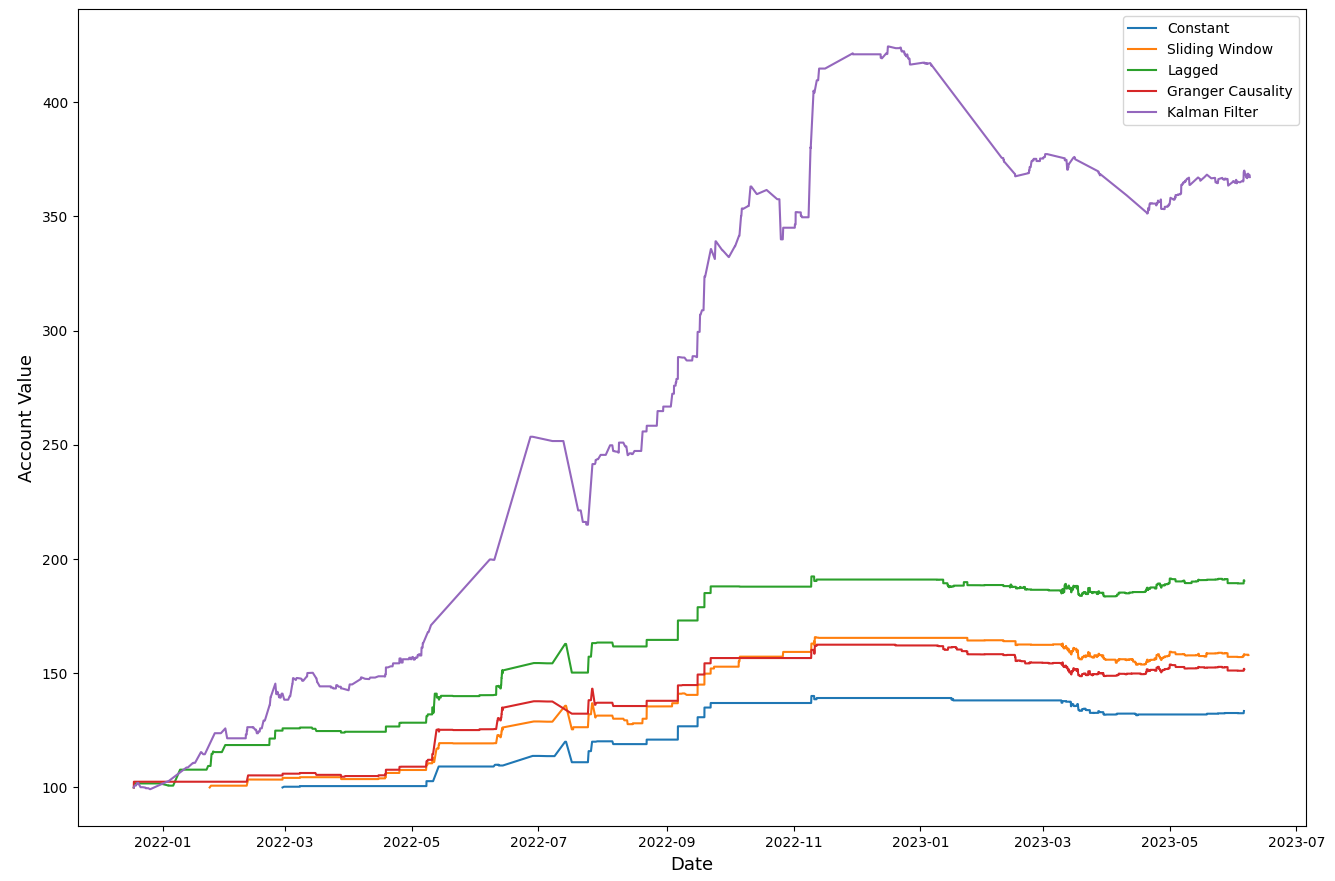
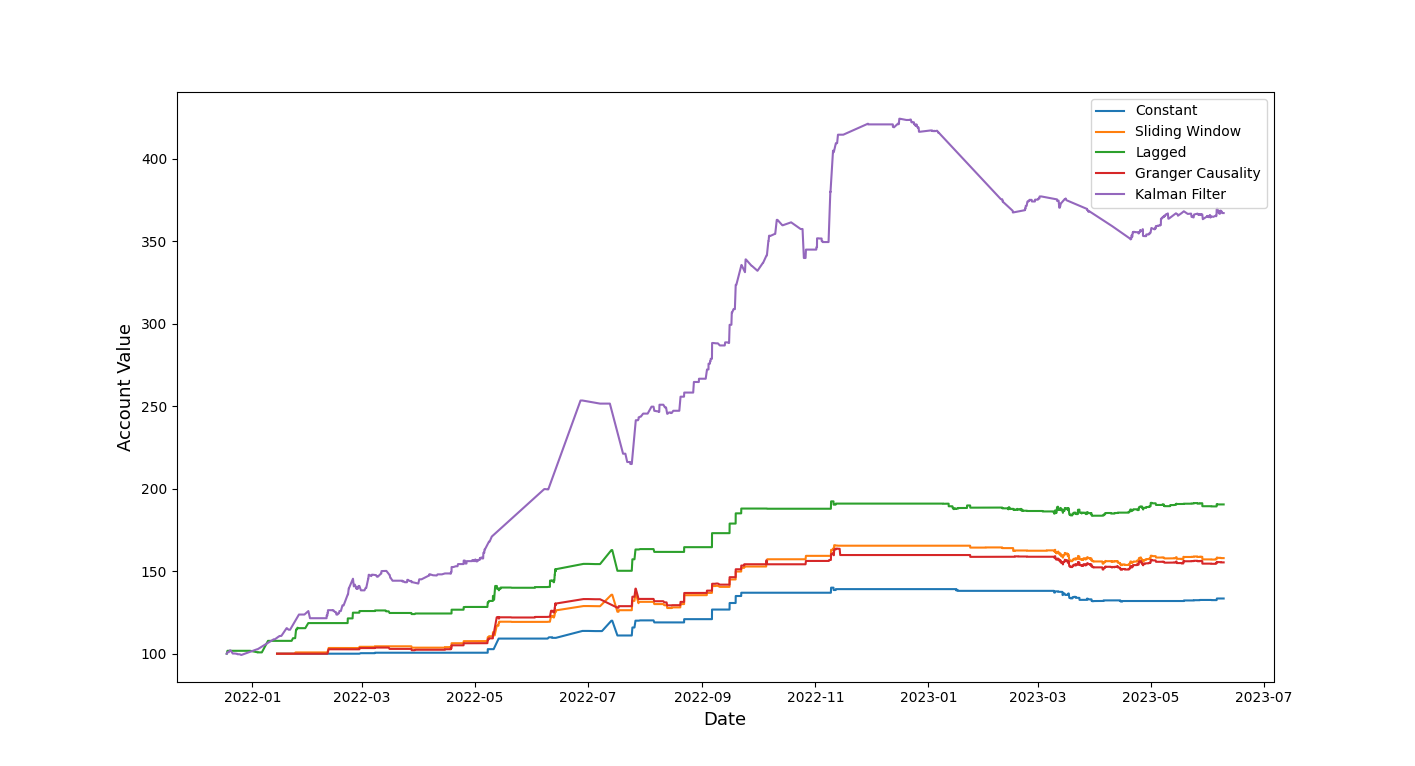
Update strategies results and plots

diff --git a/final_report/evaluation/evaluation.tex b/final_report/evaluation/evaluation.tex
@@ -35,13 +35,13 @@ Consistent profit among all of the pool pairs, excluding pool pair 6, is also ac
             &   & \multicolumn{2}{|c|}{Constant} & \multicolumn{2}{|c|}{Sliding Window} & \multicolumn{2}{|c|}{Lagged} & \multicolumn{2}{|c|}{Granger Causality} & \multicolumn{2}{|c|}{Kalman Filter}\\\cline{3-12}
             & & Return \% & \# of Trades & Return \% & \# of Trades & Return \% & \# of Trades & Return \% & \# of Trades & Return \% & \# of Trades\\\hline
 
-            & 0 & \textcolor{green}{5.44} & 360 & \textcolor{green}{29.28} & 661 & \textcolor{green}{66.29} & 687 & \textcolor{green}{26.34} & 704 & \textcolor{red}{-100} & 70\\\cline{3-12}
-            & 1 & \textcolor{red}{-100} & 104 & \textcolor{red}{-83.7} & 660 & \textcolor{red}{-77.28} & 653 & \textcolor{red}{-85.49} & 680 & \textcolor{red}{-100} & 71\\\cline{3-12}
+            & 0 & \textcolor{green}{5.44} & 360 & \textcolor{green}{29.28} & 661 & \textcolor{green}{66.29} & 687 & \textcolor{green}{26.34} & 704 & \textcolor{green}{83.01} & 228\\\cline{3-12}
+            & 1 & \textcolor{red}{-54.34} & 397 & \textcolor{red}{-83.7} & 660 & \textcolor{red}{-77.28} & 653 & \textcolor{red}{-85.49} & 680 & \textcolor{red}{-14.99} & 307\\\cline{3-12}
             & 2 & \textcolor{green}{5.83} & 454 & \textcolor{red}{-2.1} & 634 & \textcolor{green}{43.6} & 619 & \textcolor{red}{-4.04} & 730 & \textcolor{green}{89.13} & 236\\\cline{3-12}
-            $\sigma=0.1$& 3 & \textcolor{red}{-67.51} & 535 & \textcolor{red}{-70.51} & 572 & \textcolor{red}{-73.24} & 604 & \textcolor{red}{-100} & 671 & \textcolor{red}{-100} & 74\\\cline{3-12}
-            & 4 & \textcolor{green}{11.14} & 375 & \textcolor{green}{10.06} & 759 & \textcolor{green}{58.61} & 669 & \textcolor{green}{22.59} & 802 & \textcolor{red}{-100} & 70\\\cline{3-12}
-            & 5 & \textcolor{red}{-53.44} & 396 & \textcolor{red}{-75.16} & 587 & \textcolor{red}{-68.27} & 593 & \textcolor{red}{-100} & 587 & \textcolor{red}{-100} & 71\\\cline{3-12}
-            & 6 & \textcolor{red}{-100} & 26 & \textcolor{red}{-82.0} & 213 & \textcolor{red}{-76.2} & 198 & \textcolor{red}{-75.63} & 195 & \textcolor{red}{-100} & 27\\\hline\hline
+            $\sigma=0.1$3 & \textcolor{red}{-67.51} & 535 & \textcolor{red}{-70.51} & 572 & \textcolor{red}{-73.24} & 604 & \textcolor{red}{-100} & 671 & \textcolor{red}{-14.05} & 301\\\cline{3-12}
+            & 4 & \textcolor{green}{11.14} & 375 & \textcolor{green}{10.06} & 759 & \textcolor{green}{58.61} & 669 & \textcolor{green}{22.59} & 802 & \textcolor{green}{71.83} & 227\\\cline{3-12}
+            & 5 & \textcolor{red}{-53.44} & 396 & \textcolor{red}{-75.16} & 587 & \textcolor{red}{-68.27} & 593 & \textcolor{red}{-100} & 587 & \textcolor{red}{-24.99} & 328\\\cline{3-12}
+            & 6 & \textcolor{red}{-15.76} & 72 & \textcolor{red}{-82.0} & 213 & \textcolor{red}{-76.2} & 198 & \textcolor{red}{-75.63} & 195 & \textcolor{red}{-6.12} & 84\\\hline\hline
 
             & 0 & \textcolor{green}{11.77} & 723 & \textcolor{red}{-15.81} & 1223 & \textcolor{green}{104.48} & 1185 & \textcolor{red}{-2.31} & 1234 & \textcolor{green}{241.96} & 378\\\cline{3-12}
             & 1 & \textcolor{red}{-100} & 832 & \textcolor{red}{-100} & 920 & \textcolor{red}{-100} & 936 & \textcolor{red}{-100} & 978 & \textcolor{green}{60.2} & 456\\\cline{3-12}
@@ -49,7 +49,7 @@ Consistent profit among all of the pool pairs, excluding pool pair 6, is also ac
             $\sigma=0.5$& 3 & \textcolor{red}{-93.51} & 794 & \textcolor{red}{-100} & 944 & \textcolor{red}{-92.35} & 1063 & \textcolor{red}{-100} & 808 & \textcolor{green}{37.63} & 425\\\cline{3-12}
             & 4 & \textcolor{green}{26.01} & 826 & \textcolor{red}{-16.12} & 1243 & \textcolor{green}{112.45} & 1213 & \textcolor{green}{16.25} & 1217 & \textcolor{green}{244.51} & 391\\\cline{3-12}
             & 5 & \textcolor{red}{-95.02} & 837 & \textcolor{red}{-100} & 854 & \textcolor{red}{-100} & 905 & \textcolor{red}{-100} & 824 & \textcolor{green}{90.57} & 388\\\cline{3-12}
-            & 6 & \textcolor{red}{-100} & 40 & \textcolor{red}{-96.69} & 359 & \textcolor{red}{-84.14} & 301 & \textcolor{red}{-95.26} & 367 & \textcolor{red}{-100} & 61\\\hline\hline
+            & 6 & \textcolor{red}{-37.47} & 124 & \textcolor{red}{-96.69} & 359 & \textcolor{red}{-84.14} & 301 & \textcolor{red}{-95.26} & 367 & \textcolor{red}{-39.65} & 150\\\hline\hline
             
             & 0 & \textcolor{red}{-21.41} & 675 & \textcolor{red}{-1.59} & 864 & \textcolor{green}{129.7} & 865 & \textcolor{green}{20.4} & 913 & \textcolor{green}{164.34} & 442\\\cline{3-12}
             & 1 & \textcolor{red}{-100} & 791 & \textcolor{red}{-100} & 814 & \textcolor{red}{-93.81} & 1022 & \textcolor{red}{-100} & 818 & \textcolor{red}{-10.31} & 505\\\cline{3-12}
@@ -383,7 +383,7 @@ Overall, given the experiments conducted the optimal paramters for each strategy
     \caption{Optimal Parameters for each strategy \label{tab:OptimParams}}
 \end{table}
 
-By running the backtesting system from 18th December 2021 to 9th June 2023, we can see in Figure \ref{tab:FinalResults} the Kalman Filter outperforms all of the other strategies in all liquidity pool pairs except pair 6. The Lagged strategy has also performed well, whereas the Granger Causality and the Sliding Window strategies also resulting in similar mediocre returns. Finally, the Constant strategy fails to obtain a significantly profitable result as we have seen in the experiments above.
+By running the backtesting system from 18th December 2021 to 9th June 2023, we can see in Table \ref{tab:FinalResults} the Kalman Filter outperforms all of the other strategies in all liquidity pool pairs except pair 6. The Lagged strategy has also performed well, whereas the Constant, Granger Causality and the Sliding Window strategies also resulting in similar mediocre returns, with the Granger Causality strategy performing the worst.
 
 \begin{table}[!htb]
     \centering
@@ -392,15 +392,15 @@ By running the backtesting system from 18th December 2021 to 9th June 2023, we c
             Pool Pair & \multicolumn{10}{|c|}{Strategy's Return - Trading from 18th December 2021 to 9th June 2023} \\\cline{2-11}
             & \multicolumn{2}{|c|}{Constant} & \multicolumn{2}{|c|}{Sliding Window} & \multicolumn{2}{|c|}{Lagged} & \multicolumn{2}{|c|}{Granger Causality} & \multicolumn{2}{|c|}{Kalman Filter}\\\cline{2-11}
             & Return \% & \# of Trades & Return \% & \# of Trades & Return \% & \# of Trades & Return \% & \# of Trades & Return \% & \# of Trades\\\hline
-            0 & \textcolor{green}{33.47} & 75 & \textcolor{green}{57.95} & 250 & \textcolor{green}{90.51} & 242 & \textcolor{green}{51.77} & 227 & \textcolor{green}{267.18} & 354\\\cline{2-11}
-            1 & \textcolor{red}{-2.46} & 44 & \textcolor{green}{22.35} & 122 & \textcolor{green}{35.75} & 162 & \textcolor{green}{24.11} & 130 & \textcolor{green}{82.26} & 425\\\cline{2-11}
-            2 & \textcolor{red}{-3.5} & 37 & \textcolor{green}{54.08} & 148 & \textcolor{green}{81.65} & 181 & \textcolor{green}{43.86} & 147 & \textcolor{green}{297.14} & 371\\\cline{2-11}
-            3 & \textcolor{red}{-5.97} & 48 & \textcolor{green}{19.87} & 117 & \textcolor{green}{28.08} & 158 & \textcolor{green}{13.84} & 115 & \textcolor{green}{48.13} & 399\\\cline{2-11}
-            4 & \textcolor{green}{6.45} & 40 & \textcolor{green}{56.57} & 146 & \textcolor{green}{88.87} & 175 & \textcolor{green}{52.29} & 170 & \textcolor{green}{270.08} & 363\\\cline{2-11}
-            5 & \textcolor{red}{-2.32} & 34 & \textcolor{green}{31.25} & 100 & \textcolor{green}{44.05} & 127 & \textcolor{green}{25.47} & 104 & \textcolor{green}{96.64} & 366\\\cline{2-11}
-            6 & \textcolor{red}{-1.65} & 3 & \textcolor{red}{-14.4} & 30 & \textcolor{red}{-20.29} & 50 & \textcolor{red}{-15.27} & 28 & \textcolor{red}{-100} & 53\\\hline\hline            
-            Average & \textcolor{green}{1.59} & 40.1 & \textcolor{green}{32.52} & 130.4 & \textcolor{green}{49.8} & 156.4 & \textcolor{green}{28.01} & 131.6 & \textcolor{green}{137.35} & 333\\\hline            
-            Average of APR return of each pool & \textcolor{green}{2.3391} &  & \textcolor{green}{20.8808} &   & \textcolor{green}{31.0540} &  & \textcolor{green}{18.0922} &  & \textcolor{green}{69.9687} & \\\hline            
+            0 & \textcolor{green}{33.47} & 75 & \textcolor{green}{57.95} & 250 & \textcolor{green}{90.51} & 242 & \textcolor{green}{55.36} & 250 & \textcolor{green}{267.18} & 354\\\cline{2-11}
+            1 & \textcolor{green}{32.46} & 32 & \textcolor{green}{20.7} & 127 & \textcolor{green}{35.75} & 162 & \textcolor{green}{8.83} & 136 & \textcolor{green}{82.26} & 425\\\cline{2-11}
+            2 & \textcolor{green}{30.48} & 44 & \textcolor{green}{45.55} & 103 & \textcolor{green}{81.65} & 181 & \textcolor{green}{38.55} & 104 & \textcolor{green}{297.14} & 371\\\cline{2-11}
+            3 & \textcolor{green}{24.94} & 29 & \textcolor{green}{20.52} & 86 & \textcolor{green}{28.08} & 158 & \textcolor{green}{11.02} & 94 & \textcolor{green}{48.13} & 399\\\cline{2-11}
+            4 & \textcolor{green}{38.87} & 42 & \textcolor{green}{57.69} & 122 & \textcolor{green}{88.87} & 175 & \textcolor{green}{40.3} & 139 & \textcolor{green}{270.08} & 363\\\cline{2-11}
+            5 & \textcolor{green}{31.17} & 24 & \textcolor{green}{37.84} & 77 & \textcolor{green}{44.05} & 127 & \textcolor{green}{23.78} & 83 & \textcolor{green}{96.64} & 366\\\cline{2-11}
+            6 & \textcolor{red}{-2.46} & 13 & \textcolor{red}{-14.07} & 30 & \textcolor{red}{-20.29} & 50 & \textcolor{red}{-16.96} & 27 & \textcolor{red}{-31.93} & 147\\\hline\hline           
+            Average & \textcolor{green}{26.99} & 37 & \textcolor{green}{32.31} & 113.6 & \textcolor{green}{49.80} & 156.4 & \textcolor{green}{22.98} & 119 & \textcolor{green}{147.07} & 346.4\\\hline            
+            Average of APR return of each pool pair & \textcolor{green}{18.48} &  & \textcolor{green}{21.70} &   & \textcolor{green}{32.52} &  & \textcolor{green}{15.51} &  & \textcolor{green}{85.64} & \\\hline            
         \end{tabular}
     \end{adjustwidth}
     \caption{Returns of each strategy with their optimal parameters \label{tab:FinalResults}}.
